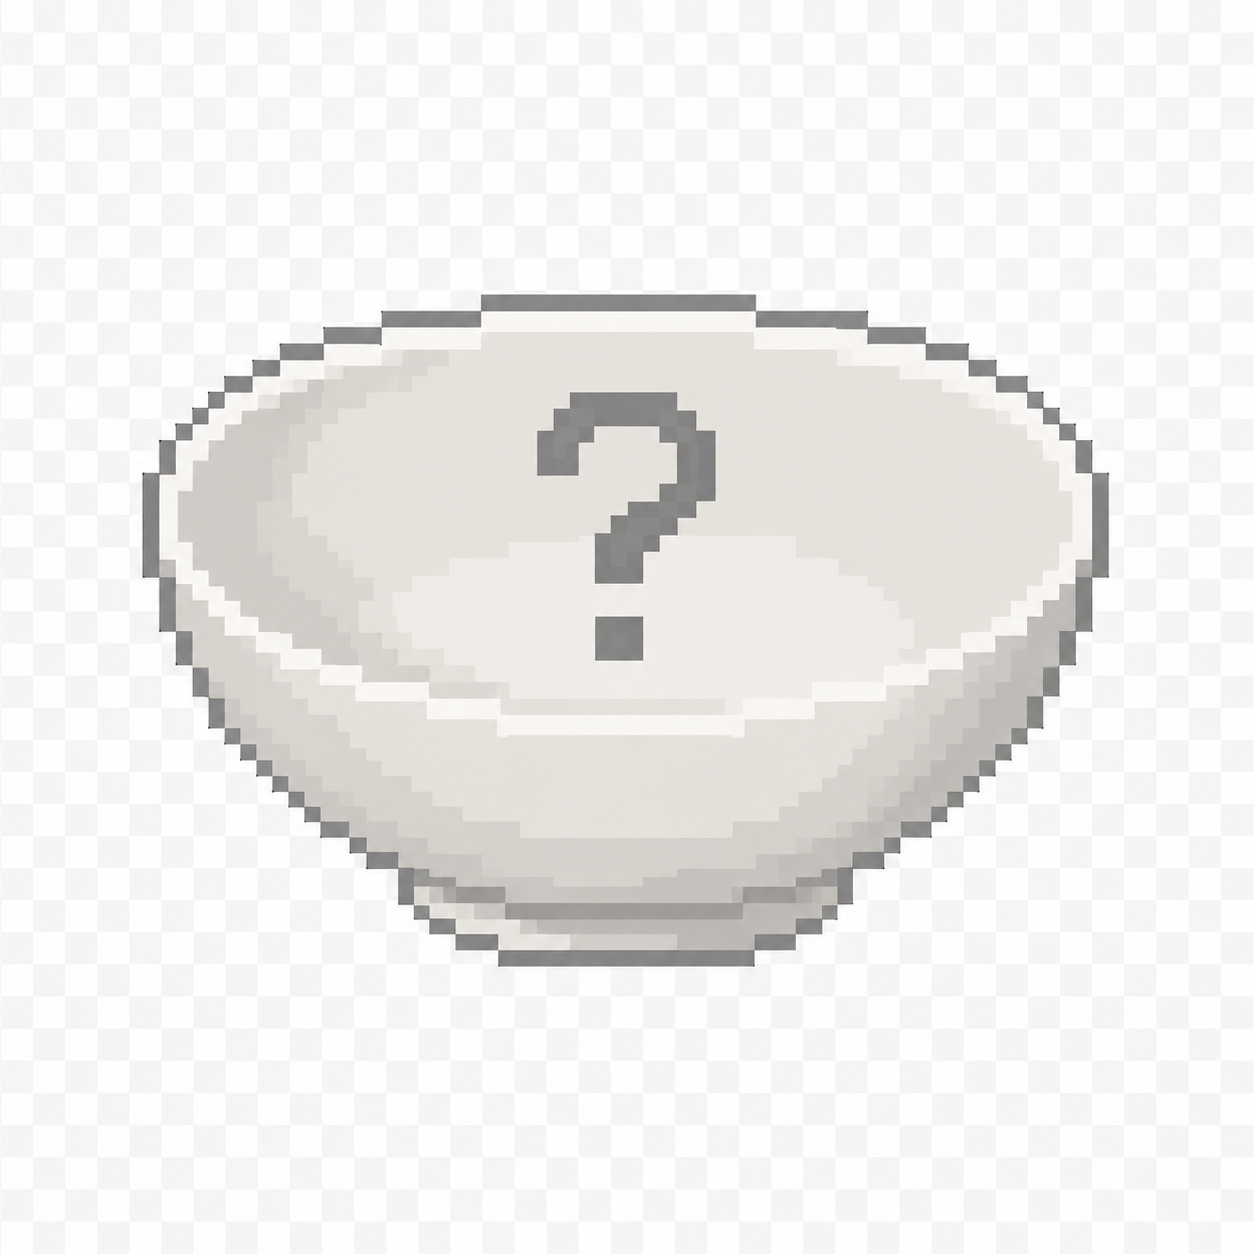
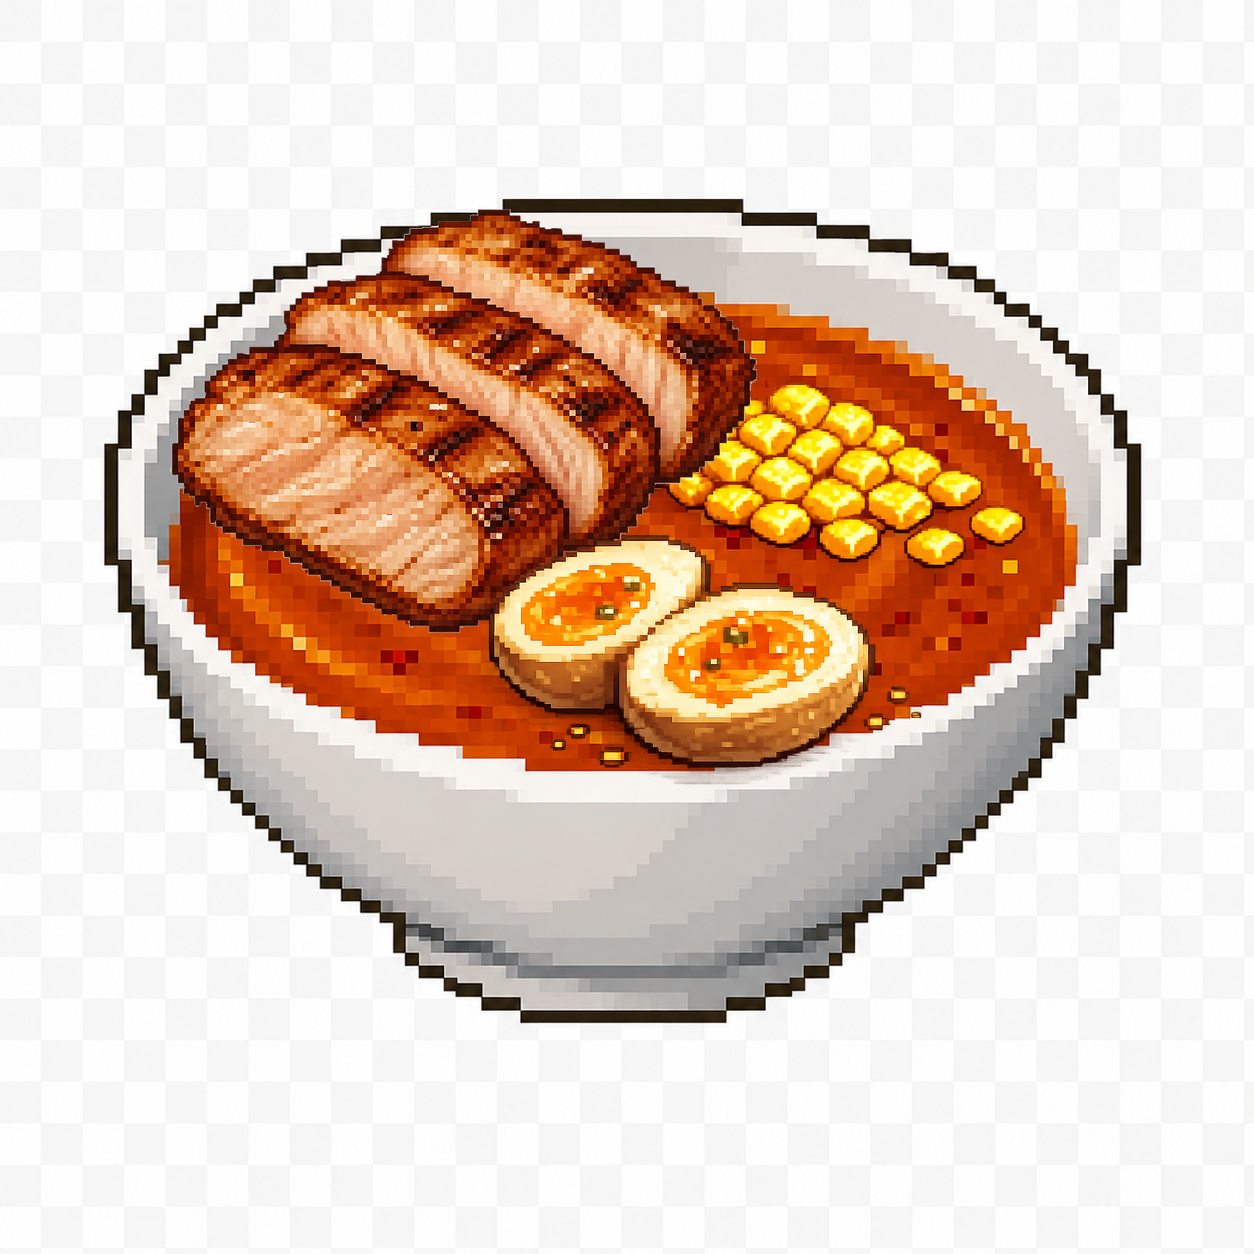
RAMEN HAHA

diff --git a/.claude/commands/ramen-bowl.md b/.claude/commands/ramen-bowl.md
@@ -1,0 +1,45 @@
+---
+name: ramen-bowl
+description: Generate a customized ramen bowl image by compositing PNG ingredient layers
+---
+
+Ask the user to customize their ramen bowl. Present each category clearly and wait for their selections.
+
+## Options
+
+**Broth** (pick one — required, includes the bowl):
+- `tonkotsu` — rich creamy pork broth
+- `shoyu` — clear soy sauce broth
+- `miso` — golden miso broth
+- `shio` — pale clear salt broth
+- `spicymiso` — spicy miso broth
+
+**Protein** (pick one — optional):
+- `chashu` — braised pork belly
+- `chickenbreast` — poached chicken
+- `grilledtofu` — grilled tofu
+- `porkshoulder` — pork shoulder
+- `shrimptempura` — shrimp tempura
+- `steak` — beef steak
+
+**Veggies** (pick any):
+- `bambooshoots`, `beansprouts`, `bokchoy`, `corn`, `spinach`
+
+**Add-ons** (pick any):
+- `ajitama` — marinated soft egg
+- `chilioil` — chili oil drizzle
+- `garlicchips` — crispy garlic chips
+- `narutomaki` — fish cake swirl
+- `nori` — dried seaweed
+
+## After the user chooses
+
+Run this command (omit flags for unpicked categories):
+
+!node scripts/generate-bowl.mjs --broth=<broth> --protein=<protein> --veggies=<v1,v2> --addons=<a1,a2>
+
+Example (spicy miso, chashu, corn + bokchoy, ajitama + nori):
+!node scripts/generate-bowl.mjs --broth=spicymiso --protein=chashu --veggies=corn,bokchoy --addons=ajitama,nori
+
+After it runs, tell the user their bowl was saved to `public/custom-bowl.png`.
+Note any skipped ingredients (missing PNGs) — assets live in `VocabMemo/src/main/ingredients/`.
